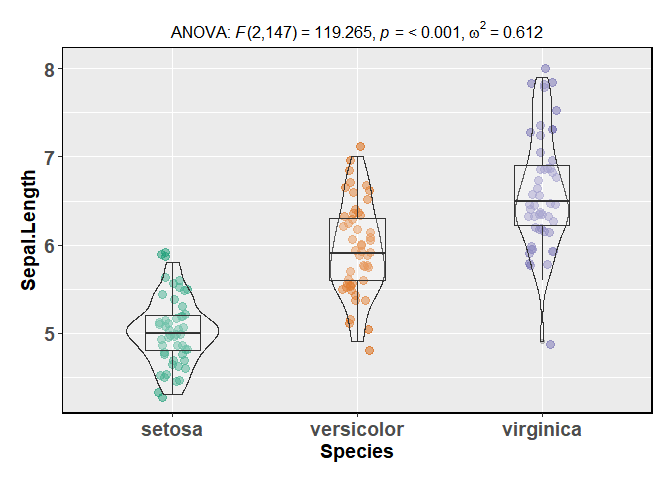
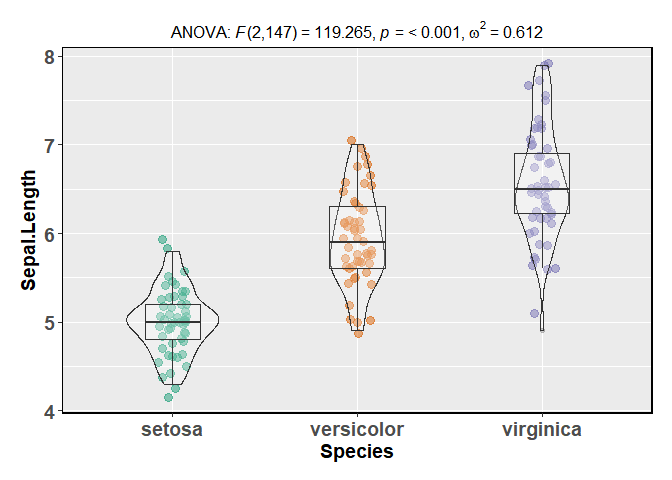
updated README file

diff --git a/README.md b/README.md
@@ -4,7 +4,7 @@
 Overview
 --------
 
-ggstatsplot is an extension of `ggplot2` package for creating graphics with details from statistical tests included in the plots themselves and targeted primarily at behavioral sciences community to provide a one-line code to produce information-rich figures. Currently, it supports only the most common types of tests used in analysis (parametric, nonparametric, and robust versions of t-tets, anova, and contingency tables). Future versions will include other types of analyses as well.
+ggstatsplot is an extension of `ggplot2` package for creating graphics with details from statistical tests included in the plots themselves and targeted primarily at behavioral sciences community to provide a one-line code to produce information-rich figures. Currently, it supports only the most common types of tests used in analysis (**parametric**, **nonparametric**, and **robust** versions of **t-tets**, **anova**, and **contingency tables**). Future versions will include other types of analyses as well.
 
 Installation
 ------------
@@ -20,26 +20,111 @@ Examples
 
 Here are examples of the three main functions currently supported in `ggstatsplot`:
 
-`ggbetweenstats`
-================
+-   `ggbetweenstats`
 
-This function creates a violin plot for between-group or between-condition comparisons with results from statistical tests in subtitle:
+This function creates a violin plot for **between**-group or **between**-condition comparisons with results from statistical tests in subtitle:
 
 ``` r
-ggstatsplot::ggbetweenstats(data = iris, x = Species, y = Sepal.Length)
+ggstatsplot::ggbetweenstats(data = iris, 
+                            x = Species, 
+                            y = Sepal.Length)
 #> Note: Bartlett's test for homogeneity of variances: p-value =  < 0.001
 ```
 
 ![](man/figures/README-unnamed-chunk-3-1.png)
 
-Number of other arguments can be specified to make this plot even more informative:
+Number of other arguments can be specified to make this plot even more informative and, additionally, this function returns a `ggplot2` object and thus any layer of choosing can further be modified:
 
 ``` r
-ggstatsplot::ggbetweenstats(data = iris, x = Species, y = Sepal.Length, mean.plotting = TRUE, 
-                            type = "robust", outlier.tagging = TRUE, outlier.label = Petal.Length, # outlier tags can be from a different variable in the dataframe
-                            title = "Dataset: iris", caption = "Note: this is a demo")
+library(ggplot2)
+ggstatsplot::ggbetweenstats(
+  data = iris,
+  x = Species,
+  y = Sepal.Length,
+  mean.plotting = TRUE,
+  type = "robust",
+  outlier.tagging = TRUE,
+  title = "Dataset: iris",
+  caption = expression(paste(italic("Note"), "): this is a demo"))
+  ) +
+  coord_cartesian(ylim = c(3, 8)) + 
+  scale_y_continuous(breaks = seq(3, 8, by = 1))
 #> Note: Bartlett's test for homogeneity of variances: p-value =  < 0.001
 #> Warning: Removed 149 rows containing missing values (geom_label_repel).
 ```
 
 ![](man/figures/README-unnamed-chunk-4-1.png)
+
+Variant of this function `ggwithinstats` is currently under work.
+
+-   `ggbetweenstats`
+
+This function creates a scatterplot with marginal histograms/boxplots/density/violin plots from `ggExtra::ggMarginal()` and results from statistical tests in subtitle:
+
+``` r
+ggstatsplot::ggscatterstats(data = iris, 
+                            x = Sepal.Length, 
+                            y = Petal.Length)
+```
+
+![](man/figures/README-unnamed-chunk-5-1.png)
+
+Number of other arguments can be specified to modify this basic plot-
+
+``` r
+ggstatsplot::ggscatterstats(
+  data = subset(iris, iris$Species == "setosa"),
+  x = Sepal.Length,
+  y = Petal.Length,
+  marginal.type = "density",
+  xfill = "blue",
+  yfill = "red",
+  intercept = "median",
+  width.jitter = 0.2,
+  height.jitter = 0.4
+  ) 
+```
+
+![](man/figures/README-unnamed-chunk-6-1.png)
+
+**Important**: In contrast to all other functions in this package, the `ggscatterstats` function returns object that is not further modifiable with `ggplot2`. This can be avoided by not plotting the marginal distributions (`marginal = FALSE`). Currently trying to find a workaround this problem.
+
+-   `ggbetweenstats`
+
+This function creates a pie chart for categorical variables with results from contingency table analysis included in the subtitle of the plot.
+
+``` r
+ggstatsplot::ggpiestats(data = iris,
+                        main = Species)
+```
+
+![](man/figures/README-unnamed-chunk-7-1.png)
+
+This function can also be used to study interaction between two categorical variables-
+
+``` r
+ggstatsplot::ggpiestats(data = mtcars,
+                        main = am,
+                        condition = cyl)
+```
+
+![](man/figures/README-unnamed-chunk-8-1.png)
+
+As with the other functions, this basic plot can further be modified with additional arguments and, additionally, this function returns a `ggplot2` object and thus any layer of choosing can further be modified:
+
+``` r
+library(ggplot2)
+ggstatsplot::ggpiestats(
+data = mtcars,
+main = am,
+condition = cyl,
+title = "dataset: mtcars",
+stat.title = "interaction effect",
+legend.title = "Transmission",
+facet.wrap.name = "cylinder",
+caption = expression(paste(italic("Note"), "): this is a demo"))
+) +
+scale_fill_brewer(palette = "Set1")
+```
+
+![](man/figures/README-unnamed-chunk-9-1.png)
